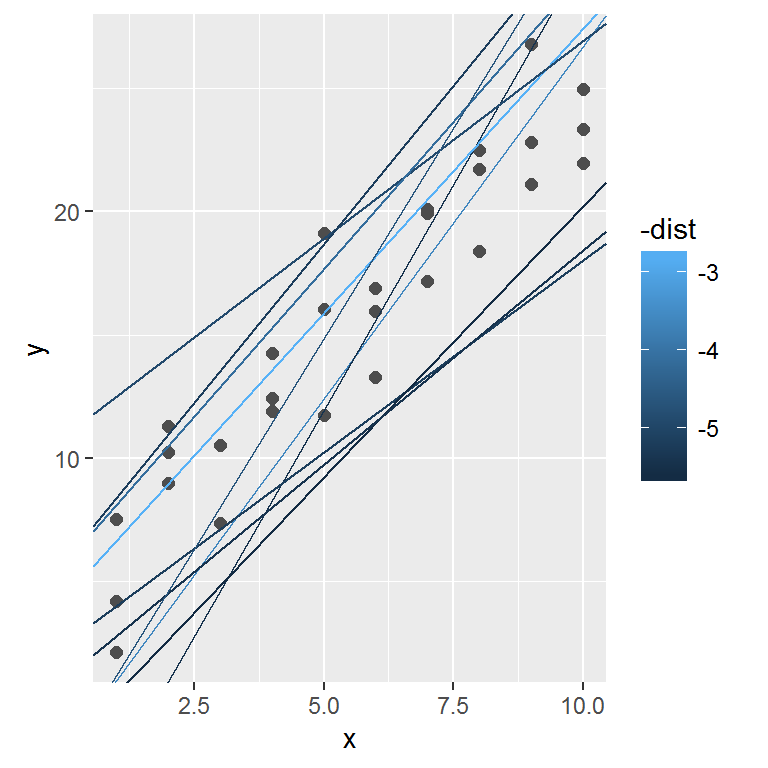
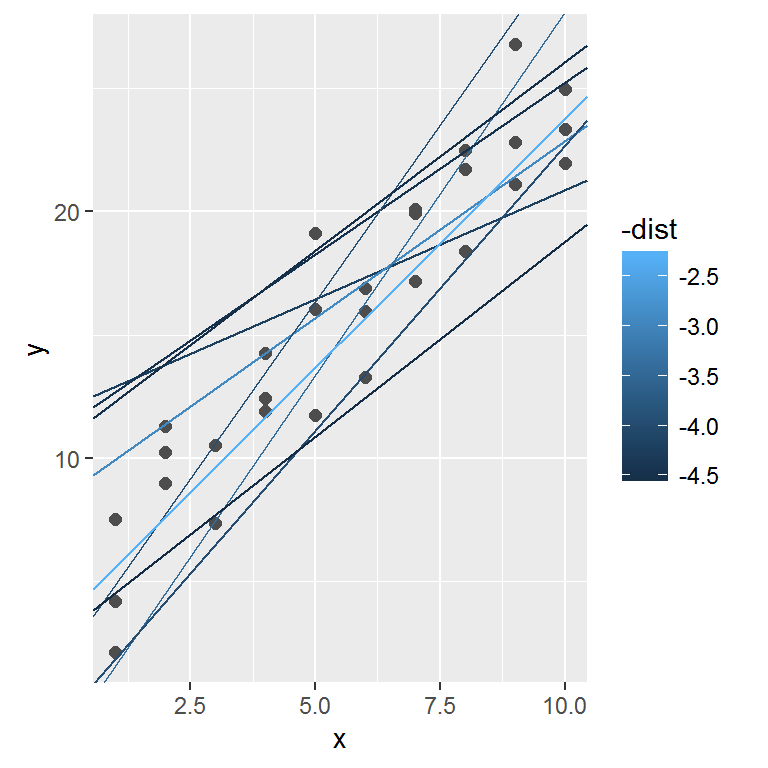
This is probably enough for now

diff --git a/week_14/model_basics/slides_model_basics.html b/week_14/model_basics/slides_model_basics.html
@@ -1,7 +1,7 @@
 <!DOCTYPE html>
 <html>
 <head>
-  <title>Making Slides</title>
+  <title>Modeling Basics</title>
   <meta charset="utf-8">
   <meta http-equiv="x-ua-compatible" content="ie=edge">
   <meta name="viewport" content="width=device-width, initial-scale=1">
@@ -58,16 +58,16 @@
 <body class="shower list">
 
   <header class="caption">
-    <h1>Making Slides</h1>
+    <h1>Modeling Basics</h1>
     <p>Ranae Dietzel and Andee Kaplan</p>
   </header>
 
     
   
-<section id="models" class="slide level2">
-<h2>Models</h2>
+<section id="modeling-basics" class="slide level2">
+<h2>Modeling Basics</h2>
 <center>
-<img src="images/inception_top.gif" width="800px"/>
+<img src="images/model.gif" width="800px"/>
 </center>
 </section>
 <section id="why-model" class="slide level2">
@@ -166,18 +166,18 @@ models &lt;-<span class="st"> </span>models %&gt;%<span class="st"> </span>
 <span class="st">  </span><span class="kw">mutate</span>(<span class="dt">dist =</span> purrr::<span class="kw">map2_dbl</span>(a1, a2, sim1_dist))
 models</code></pre></div>
 <pre><code>## # A tibble: 250 × 3
-##              a1         a2     dist
-##           &lt;dbl&gt;      &lt;dbl&gt;    &lt;dbl&gt;
-## 1   13.12348001 -1.8517400 16.97381
-## 2  -15.39548699 -2.7976278 48.38368
-## 3    2.99767693  0.2507514 12.45401
-## 4   -0.04579094  4.9493584 14.49241
-## 5   30.35659918 -1.5248814 12.32296
-## 6  -14.05320299  3.5153500 11.25688
-## 7  -10.75608309  2.8032437 11.25836
-## 8   24.93667886  4.7943662 36.71972
-## 9   -8.13386949 -1.0773910 30.97281
-## 10  21.29810972 -1.3550271 10.14983
+##            a1        a2      dist
+##         &lt;dbl&gt;     &lt;dbl&gt;     &lt;dbl&gt;
+## 1   -1.862446 -1.887522 30.041522
+## 2  -13.060192 -2.291445 43.068437
+## 3   25.709318 -3.996407 21.093813
+## 4   38.056373 -3.500355 16.422965
+## 5   -6.607000  1.205726 15.813099
+## 6   -8.747213 -2.877722 42.559429
+## 7  -11.359571  3.159386 10.230428
+## 8   -9.494538  3.888237  6.739263
+## 9   -4.241306  4.442809  8.584836
+## 10  36.646607  2.272369 33.713600
 ## # ... with 240 more rows</code></pre>
 </section>
 <section id="section-3" class="slide level2">
@@ -215,19 +215,168 @@ best$par</code></pre></div>
 <pre><code>## [1] 4.222248 2.051204</code></pre>
 <p><img src="slides_model_basics_files/figure-revealjs/unnamed-chunk-14-1.png" width="576" /></p>
 </section>
-<section id="your-turn" class="slide level2 cover white">
-<h2>Your turn</h2>
-<p><img src="images/your_turn.jpg" class="cover height" /></p>
-<p style="color:black">
-<p>
-Alter your slides by highlighting some of the code.
-</p>
-<p>
-Add an image and adjust the size and center the image using html..
-</p>
-<p>
-Make notes for a few slides and try out presenter mode.
-</p>
+<section id="visualizing-models" class="slide level2">
+<h2>Visualizing models</h2>
+<ul>
+<li>Predictive models provide predicted data (obviously)<br />
+</li>
+<li>These data can be added to a dataframe and then treated like any other data</li>
+</ul>
+</section>
+<section id="predictions" class="slide level2">
+<h2>Predictions</h2>
+<p>To visualise the predictions from a model, we start by generating an evenly spaced grid of values that covers the region where our data lies. The easiest way to do that is to use <code>modelr::data_grid()</code>. Its first argument is a data frame, and for each subsequent argument it finds the unique variables and then generates all combinations:</p>
+<div class="sourceCode"><pre class="sourceCode r"><code class="sourceCode r">grid &lt;-<span class="st"> </span>sim1 %&gt;%<span class="st"> </span>
+<span class="st">  </span><span class="kw">data_grid</span>(x) 
+grid</code></pre></div>
+<pre><code>## # A tibble: 10 × 1
+##        x
+##    &lt;int&gt;
+## 1      1
+## 2      2
+## 3      3
+## 4      4
+## 5      5
+## 6      6
+## 7      7
+## 8      8
+## 9      9
+## 10    10</code></pre>
+</section>
+<section id="predictions-1" class="slide level2">
+<h2>Predictions</h2>
+<p>Next we add predictions. We’ll use <code>modelr::add_predictions()</code> which takes a dataframe and a model. It adds the predictions from the model to a new column in the dataframe:</p>
+<pre><code>## (Intercept)           x 
+##    4.220822    2.051533</code></pre>
+<div class="sourceCode"><pre class="sourceCode r"><code class="sourceCode r">grid &lt;-<span class="st"> </span>grid %&gt;%<span class="st"> </span>
+<span class="st">  </span><span class="kw">add_predictions</span>(sim1_mod) 
+grid</code></pre></div>
+<pre><code>## # A tibble: 10 × 2
+##        x      pred
+##    &lt;int&gt;     &lt;dbl&gt;
+## 1      1  6.272355
+## 2      2  8.323888
+## 3      3 10.375421
+## 4      4 12.426954
+## 5      5 14.478487
+## 6      6 16.530020
+## 7      7 18.581553
+## 8      8 20.633087
+## 9      9 22.684620
+## 10    10 24.736153</code></pre>
+<p>(You can also use this function to add predictions to your original dataset.)</p>
+</section>
+<section id="section-6" class="slide level2">
+<h2></h2>
+<div class="sourceCode"><pre class="sourceCode r"><code class="sourceCode r"><span class="kw">ggplot</span>(sim1, <span class="kw">aes</span>(x)) +
+<span class="st">  </span><span class="kw">geom_point</span>(<span class="kw">aes</span>(<span class="dt">y =</span> y)) +
+<span class="st">  </span><span class="kw">geom_line</span>(<span class="kw">aes</span>(<span class="dt">y =</span> pred), <span class="dt">data =</span> grid, <span class="dt">colour =</span> <span class="st">&quot;red&quot;</span>, <span class="dt">size =</span> <span class="dv">1</span>)</code></pre></div>
+<p><img src="slides_model_basics_files/figure-revealjs/unnamed-chunk-18-1.png" width="768" /></p>
+</section>
+<section id="residuals" class="slide level2">
+<h2>Residuals</h2>
+<p>The flip-side of predictions are <strong>residuals</strong>. The predictions tells you the pattern that the model has captured, and the residuals tell you what the model has missed. The residuals are just the distances between the observed and predicted values that we computed above.</p>
+</section>
+<section id="residuals-1" class="slide level2">
+<h2>Residuals</h2>
+<p>We add residuals to the data with <code>add_residuals()</code>, which works much like <code>add_predictions()</code>. Note, however, that we use the original dataset, not a manufactured grid. This is because to compute residuals we need actual y values.</p>
+<div class="sourceCode"><pre class="sourceCode r"><code class="sourceCode r">sim1 &lt;-<span class="st"> </span>sim1 %&gt;%<span class="st"> </span>
+<span class="st">  </span><span class="kw">add_residuals</span>(sim1_mod)
+sim1</code></pre></div>
+<pre><code>## # A tibble: 30 × 3
+##        x         y        resid
+##    &lt;int&gt;     &lt;dbl&gt;        &lt;dbl&gt;
+## 1      1  4.199913 -2.072442018
+## 2      1  7.510634  1.238279125
+## 3      1  2.125473 -4.146882207
+## 4      2  8.988857  0.664969362
+## 5      2 10.243105  1.919217378
+## 6      2 11.296823  2.972935148
+## 7      3  7.356365 -3.019056466
+## 8      3 10.505349  0.129928252
+## 9      3 10.511601  0.136179642
+## 10     4 12.434589  0.007634878
+## # ... with 20 more rows</code></pre>
+</section>
+<section id="residuals-2" class="slide level2">
+<h2>Residuals</h2>
+<p>Drawing a frequency polygon helps us understand the spread of the residuals:</p>
+<div class="sourceCode"><pre class="sourceCode r"><code class="sourceCode r"><span class="kw">ggplot</span>(sim1, <span class="kw">aes</span>(resid)) +<span class="st"> </span>
+<span class="st">  </span><span class="kw">geom_freqpoly</span>(<span class="dt">binwidth =</span> <span class="fl">0.5</span>)</code></pre></div>
+<p><img src="slides_model_basics_files/figure-revealjs/unnamed-chunk-20-1.png" width="576" /></p>
+</section>
+<section id="section-7" class="slide level2">
+<h2></h2>
+<p>You’ll often want to recreate plots using the residuals instead of the original predictor.</p>
+<div class="sourceCode"><pre class="sourceCode r"><code class="sourceCode r"><span class="kw">ggplot</span>(sim1, <span class="kw">aes</span>(x, resid)) +<span class="st"> </span>
+<span class="st">  </span><span class="kw">geom_ref_line</span>(<span class="dt">h =</span> <span class="dv">0</span>) +
+<span class="st">  </span><span class="kw">geom_point</span>() </code></pre></div>
+<p><img src="slides_model_basics_files/figure-revealjs/unnamed-chunk-21-1.png" width="576" /></p>
+<p>This looks like random noise, suggesting that our model has done a good job of capturing the patterns in the dataset.</p>
+</section>
+<section id="model_matrix" class="slide level2">
+<h2><code>model_matrix</code></h2>
+<p>Takes a dataframe and a formula and returns a tibble that defines the model equation: each column in the output is associated with one coefficient in the model.</p>
+</section>
+<section id="section-8" class="slide level2">
+<h2></h2>
+<div class="sourceCode"><pre class="sourceCode r"><code class="sourceCode r">df &lt;-<span class="st"> </span><span class="kw">tribble</span>(
+  ~y, ~x1, ~x2,
+  <span class="dv">4</span>, <span class="dv">2</span>, <span class="dv">5</span>,
+  <span class="dv">5</span>, <span class="dv">1</span>, <span class="dv">6</span>
+)
+<span class="kw">model_matrix</span>(df, y ~<span class="st"> </span>x1)</code></pre></div>
+<pre><code>## # A tibble: 2 × 2
+##   `(Intercept)`    x1
+##           &lt;dbl&gt; &lt;dbl&gt;
+## 1             1     2
+## 2             1     1</code></pre>
+</section>
+<section id="section-9" class="slide level2">
+<h2></h2>
+<p>The model matrix grows in an unsurprising way when you add more variables to the the model:</p>
+<div class="sourceCode"><pre class="sourceCode r"><code class="sourceCode r"><span class="kw">model_matrix</span>(df, y ~<span class="st"> </span>x1 +<span class="st"> </span>x2)</code></pre></div>
+<pre><code>## # A tibble: 2 × 3
+##   `(Intercept)`    x1    x2
+##           &lt;dbl&gt; &lt;dbl&gt; &lt;dbl&gt;
+## 1             1     2     5
+## 2             1     1     6</code></pre>
+</section>
+<section id="categorical-variables" class="slide level2">
+<h2>Categorical variables</h2>
+<p>Generating a function from a formula is straight forward when the predictor is continuous, but things get a bit more complicated when the predictor is categorical. Imagine you have a formula like <code>y ~ sex</code>, where sex could either be male or female. It doesn’t make sense to convert that to a formula like <code>y = x_0 + x_1 * sex</code> because <code>sex</code> isn’t a number - you can’t multiply it! Instead what R does is convert it to <code>y = x_0 + x_1 * sex_male</code> where <code>sex_male</code> is one if <code>sex</code> is male and zero otherwise:</p>
+</section>
+<section id="categorical-variables-1" class="slide level2">
+<h2>Categorical variables</h2>
+<p>Here’s the <code>sim2</code> dataset from modelr:</p>
+<div class="sourceCode"><pre class="sourceCode r"><code class="sourceCode r"><span class="kw">ggplot</span>(sim2) +<span class="st"> </span>
+<span class="st">  </span><span class="kw">geom_point</span>(<span class="kw">aes</span>(x, y))</code></pre></div>
+<p><img src="slides_model_basics_files/figure-revealjs/unnamed-chunk-24-1.png" width="576" /></p>
+</section>
+<section id="categorical-variables-2" class="slide level2">
+<h2>Categorical variables</h2>
+<p>We can fit a model to it, and generate predictions:</p>
+<div class="sourceCode"><pre class="sourceCode r"><code class="sourceCode r">mod2 &lt;-<span class="st"> </span><span class="kw">lm</span>(y ~<span class="st"> </span>x, <span class="dt">data =</span> sim2)
+
+grid &lt;-<span class="st"> </span>sim2 %&gt;%<span class="st"> </span>
+<span class="st">  </span><span class="kw">data_grid</span>(x) %&gt;%<span class="st"> </span>
+<span class="st">  </span><span class="kw">add_predictions</span>(mod2)
+grid</code></pre></div>
+<pre><code>## # A tibble: 4 × 2
+##       x     pred
+##   &lt;chr&gt;    &lt;dbl&gt;
+## 1     a 1.152166
+## 2     b 8.116039
+## 3     c 6.127191
+## 4     d 1.910981</code></pre>
+</section>
+<section id="section-10" class="slide level2">
+<h2></h2>
+<p>Effectively, a model with a categorical <code>x</code> will predict the mean value for each category:</p>
+<div class="sourceCode"><pre class="sourceCode r"><code class="sourceCode r"><span class="kw">ggplot</span>(sim2, <span class="kw">aes</span>(x)) +<span class="st"> </span>
+<span class="st">  </span><span class="kw">geom_point</span>(<span class="kw">aes</span>(<span class="dt">y =</span> y)) +
+<span class="st">  </span><span class="kw">geom_point</span>(<span class="dt">data =</span> grid, <span class="kw">aes</span>(<span class="dt">y =</span> pred), <span class="dt">colour =</span> <span class="st">&quot;red&quot;</span>, <span class="dt">size =</span> <span class="dv">4</span>)</code></pre></div>
+<p><img src="slides_model_basics_files/figure-revealjs/unnamed-chunk-26-1.png" width="576" /></p>
 </section>
 
   <!--
